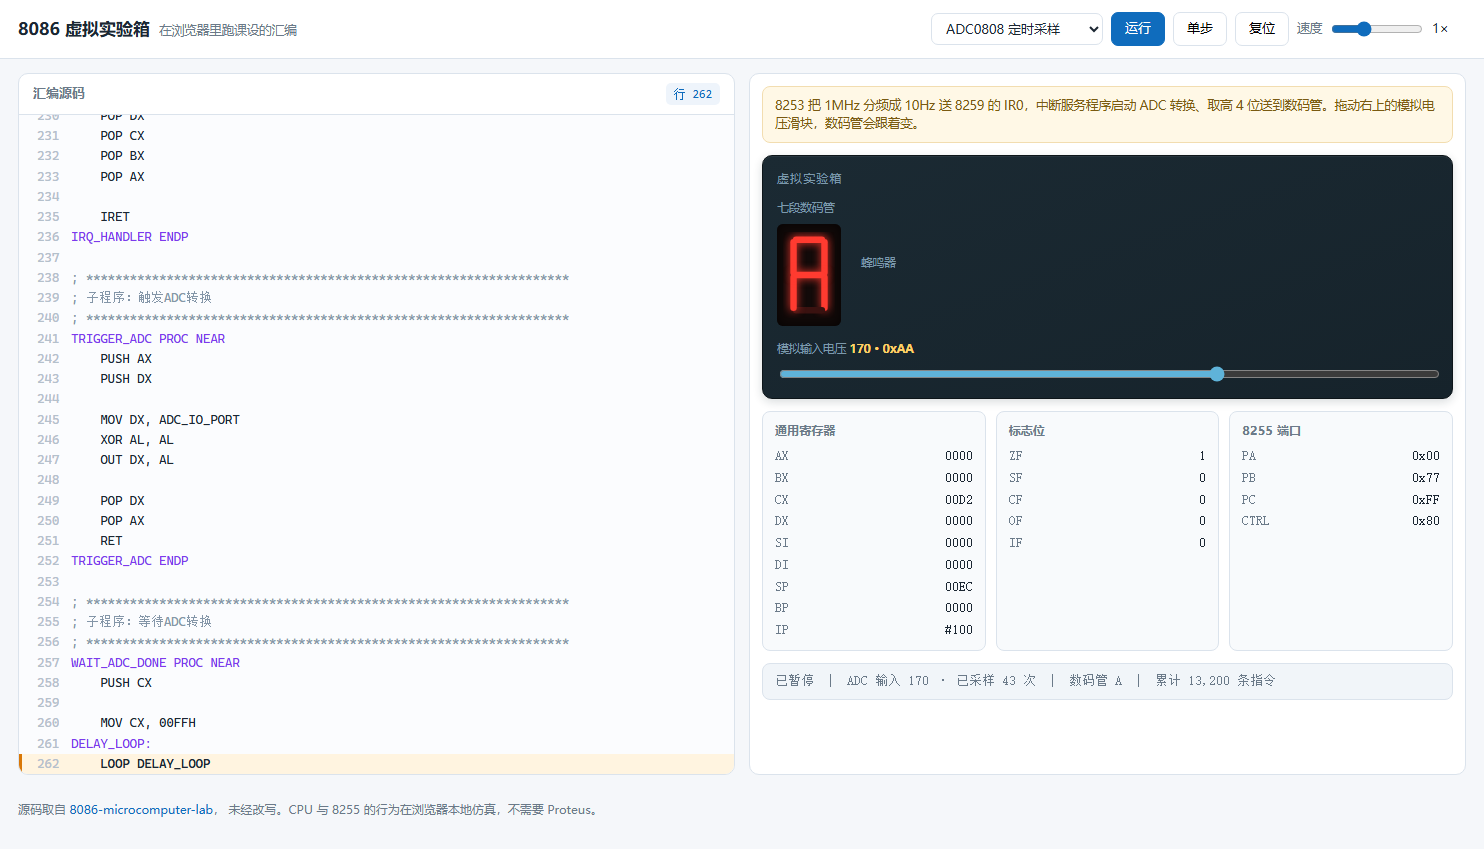
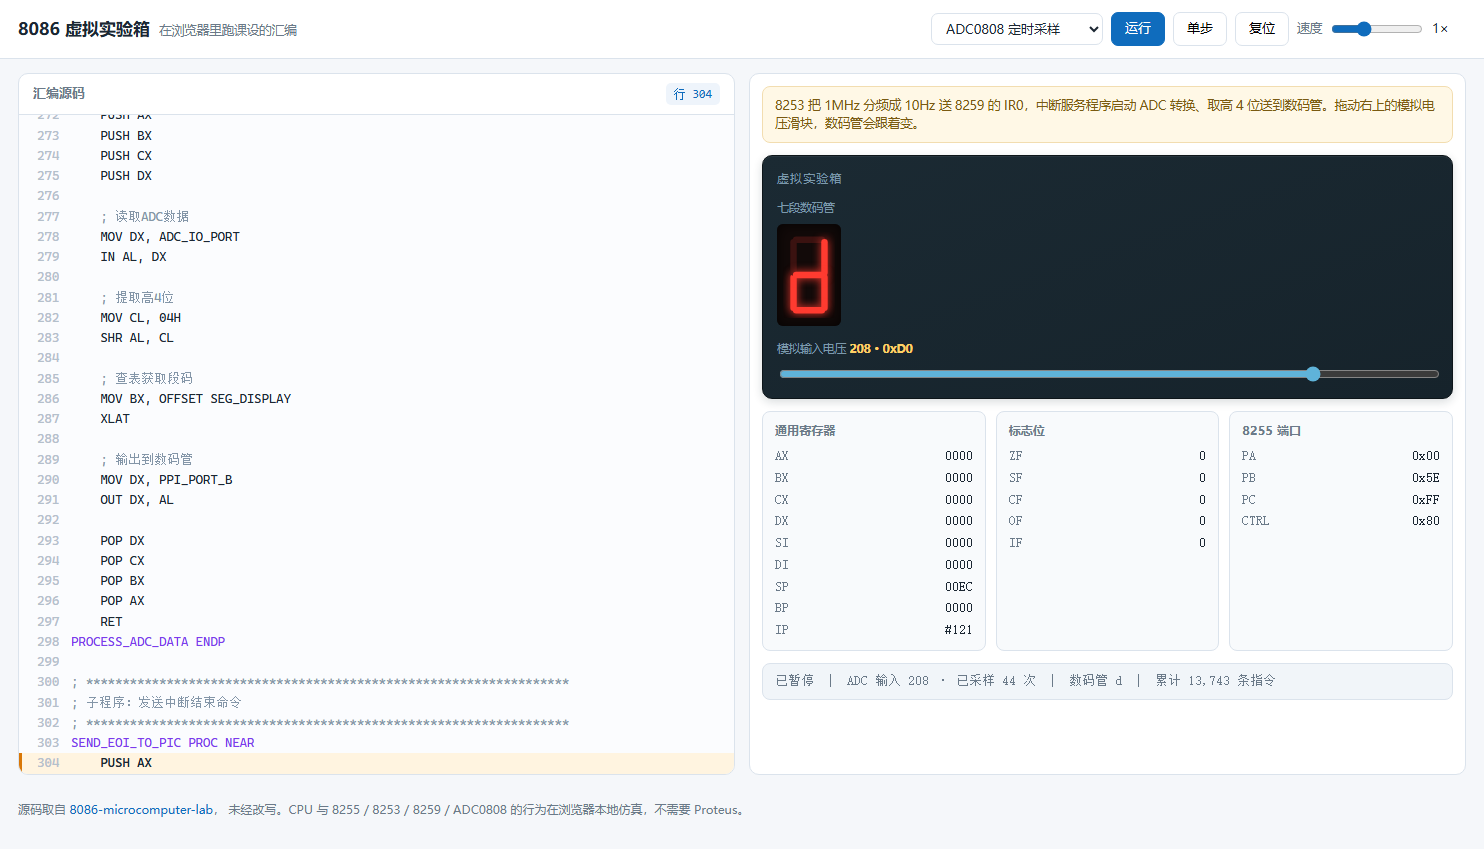
fix: init 被调用两次导致选项与监听器翻倍
module 脚本执行时 document.readyState 已经是 interactive，
末尾的立即 init() 和 DOMContentLoaded 各触发一次。后果是下拉框
出现 6 个选项、每个按钮挂两个监听器——点一次运行会被 toggle 两次。

加 inited 守卫。

顺带修 ADC 实验箱里残留的「蜂鸣器」标签：hidden 打在了内层 .buzzer 上，
外层 .unit-label 仍在显示，改为隐藏整个 .unit。

diff --git a/js/ui.js b/js/ui.js
@@ -38,6 +38,7 @@ const el = {
 };
 
 // ---------- 运行状态 ----------
+let inited = false;       // init() 是否已执行过
 let meta = null;          // 当前程序元数据
 let program = null;       // assemble 结果
 let cpu = null;
@@ -193,8 +194,13 @@ function renderPanels() {
 
 function renderBuzzer() {
   const bz = board.devices.buzzer;
-  if (!bz) { el.buzzer.hidden = true; return; }   // ADC 实验箱没有蜂鸣器
-  el.buzzer.hidden = false;
+  // 要藏整个 .unit：只藏图标的话外层「蜂鸣器」标签会留在 ADC 实验箱里。
+  const unit = el.buzzer.parentElement;
+  if (!bz) {
+    unit.hidden = true;
+    return;
+  }
+  unit.hidden = false;
   el.buzzer.classList.toggle("on", bz.sample());
 }
 
@@ -411,6 +417,12 @@ function loadProgram(id) {
    初始化
    ========================================================= */
 function init() {
+  // 只允许跑一次。module 脚本执行时 readyState 已经是 "interactive"，
+  // 下面的立即调用和 DOMContentLoaded 会各触发一次，不设守卫就会把
+  // 选项翻倍、事件监听器也翻倍。
+  if (inited) return;
+  inited = true;
+
   for (const p of Object.values(PROGRAMS)) {
     const opt = document.createElement("option");
     opt.value = p.id;
